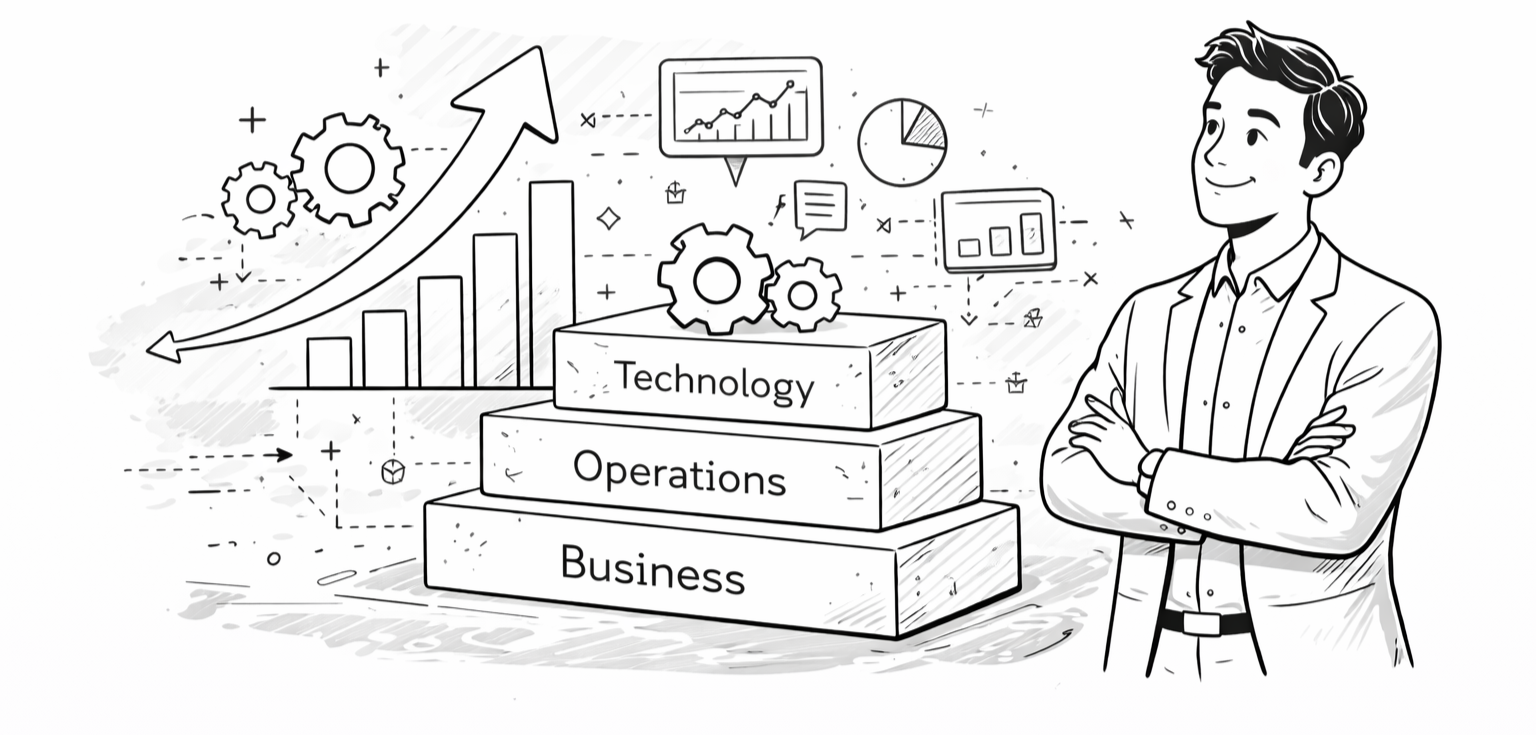
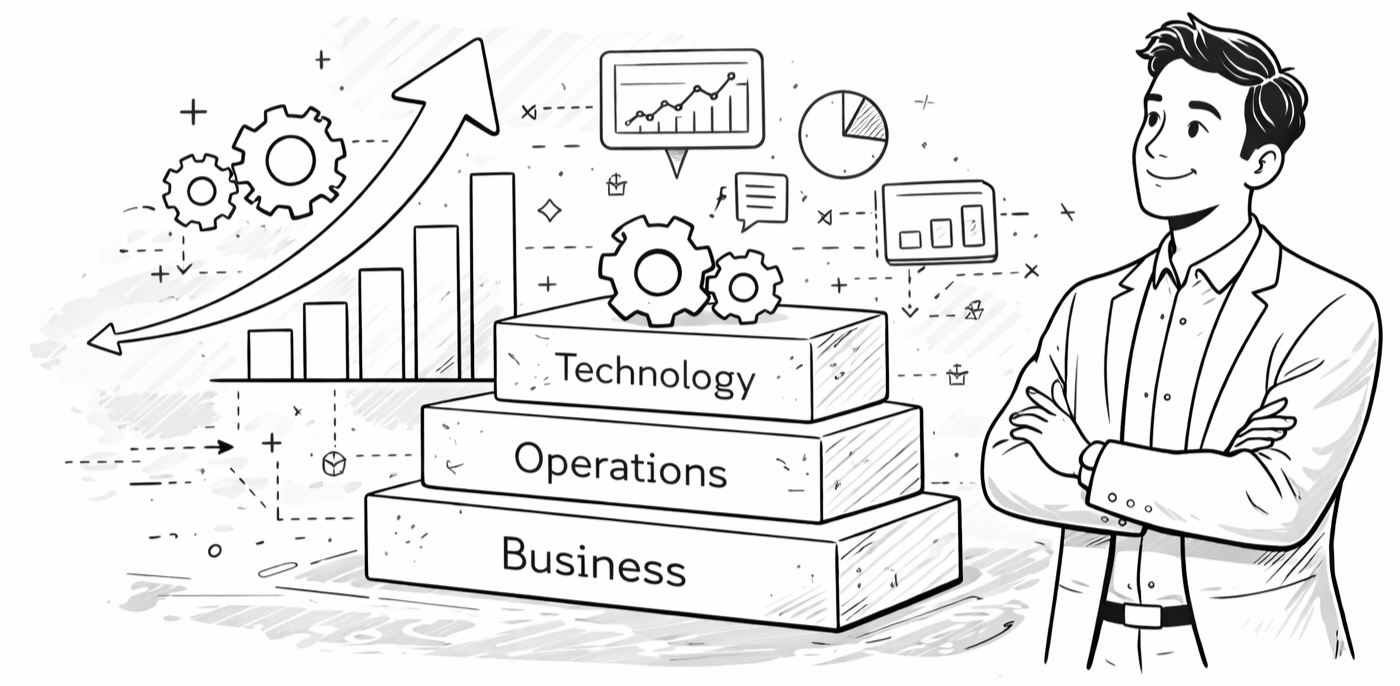
d

Changed region(s): [[0.0614, 0.0, 1.0, 0.9796], [0.215, 0.0612, 0.2457, 0.0918], [0.0921, 0.3367, 0.1229, 0.3673]]

diff --git a/about-us.html b/about-us.html
@@ -364,6 +364,9 @@
         ul {
     padding-left: 1rem;
 }
+.approach-img {
+    max-width: 480px;
+}
     </style>
 
     <script>
@@ -373,7 +376,7 @@
 
         const content = [
             {
-                img: "assets/about/inception1.jpg",
+                img: "assets/about/inception1.png",
                 text: "Early in my career, I noticed a pattern across organizations.<br><br>Technology initiatives were driven by sales not business outcomes.<br>Projects were delivered, deals were closed but one question was often ignored:"
             },
             {
@@ -394,7 +397,7 @@
             `
                     },
             {
-                img: "assets/about/inception4.jpg",
+                img: "assets/about/inception4.png",
                 text: "That realization led to building this company.<br><br>With a simple mantra:<br><br><span class='highlight-text'>Technology should be implemented with the same discipline and accountability as any core business capability.</span>"
             }
         ];
@@ -582,6 +585,7 @@
                     </p>
 
                 </div> <!-- CARD 2 -->
+                
                 <div class="stack-card"> <!-- <div class="card-number">05</div> -->
                     <h3>Be Curious</h3>
                     <p>Great solutions start with asking the right questions.
